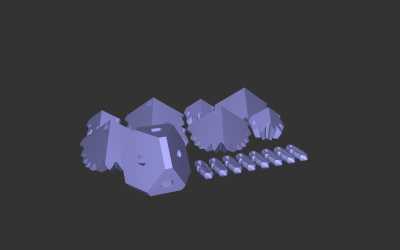
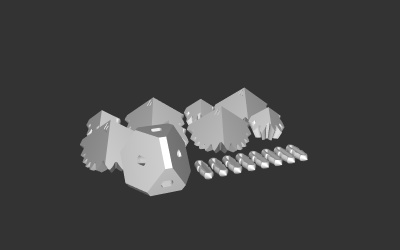
Change 3mf loader's default color to white. (#22808)

Changed region(s): [[0.18, 0.336, 0.78, 0.784]]

diff --git a/examples/jsm/loaders/3MFLoader.js b/examples/jsm/loaders/3MFLoader.js
@@ -1077,7 +1077,7 @@ class ThreeMFLoader extends Loader {
 			geometry.setIndex( new BufferAttribute( meshData[ 'triangles' ], 1 ) );
 			geometry.setAttribute( 'position', new BufferAttribute( meshData[ 'vertices' ], 3 ) );
 
-			const material = new MeshPhongMaterial( { color: 0xaaaaff, flatShading: true } );
+			const material = new MeshPhongMaterial( { color: 0xffffff, flatShading: true } );
 
 			const mesh = new Mesh( geometry, material );
 
